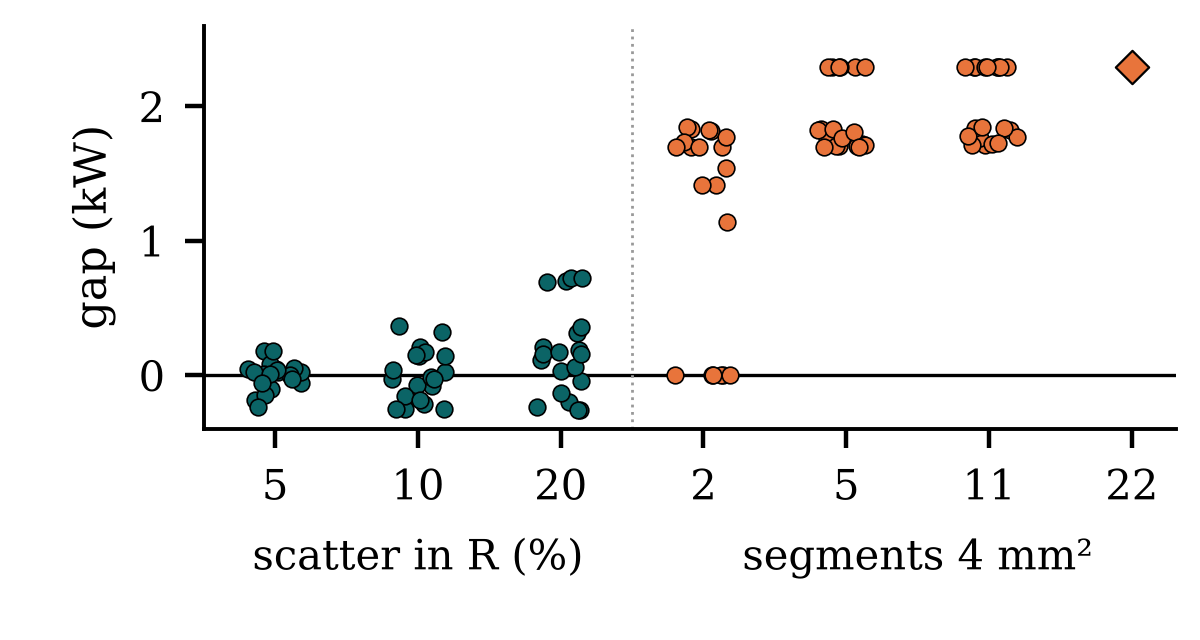
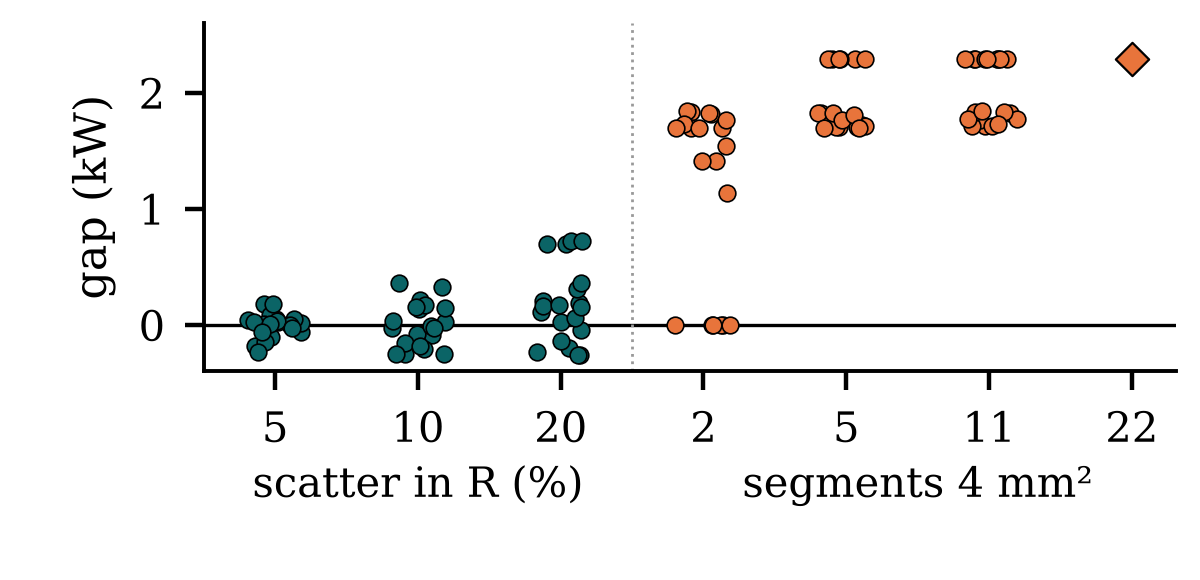
Paper figures: final sizes and labels
Claude-Session: https://claude.ai/code/session_01YLemEPW87EuHg3uB24Vzoz

diff --git a/figures/fig_paper.py b/figures/fig_paper.py
@@ -21,7 +21,7 @@ W = 3.0  # inches, one column
 e = pd.read_csv(os.path.join(R, "doe_record_errors_1200.csv"))
 s = pd.read_csv(os.path.join(R, "doe_source_sweep.csv"))
 all22 = float(s[(s.setting == "day_1200") & (abs(s.source_pu - 1.03) < 1e-6)].A_gap_kW.iloc[0])
-fig, a = plt.subplots(figsize=(W, 1.6))
+fig, a = plt.subplots(figsize=(W, 1.45))
 groups = [("scatter", 0.05, "5"), ("scatter", 0.10, "10"), ("scatter", 0.20, "20"),
           ("wrongtype", 2.0, "2"), ("wrongtype", 5.0, "5"), ("wrongtype", 11.0, "11")]
 rng = np.random.default_rng(1)
@@ -37,7 +37,7 @@ a.text(1, -0.27, "scatter in R (%)", ha="center", va="top", fontsize=7.5, transf
 a.text(4.5, -0.27, "segments 4 mm²", ha="center", va="top", fontsize=7.5, transform=a.get_xaxis_transform())
 a.set_ylim(-0.4, 2.6)
 a.set_ylabel("gap (kW)")
-fig.subplots_adjust(left=0.17, right=0.98, top=0.96, bottom=0.33)
+fig.subplots_adjust(left=0.17, right=0.98, top=0.96, bottom=0.36)
 fig.savefig("fig_paper_1.png", dpi=400)
 
 # ---- Fig. 2: one measured day
@@ -45,7 +45,7 @@ t = pd.read_csv(os.path.join(R, "doe_timeseries.csv"))
 day = t[t.daylight == "yes"]
 hrs = np.array([int(x[:2]) + int(x[3:]) / 60 for x in day.time])
 v = day.A_pv_V_VW.values
-fig, a = plt.subplots(figsize=(W, 1.4))
+fig, a = plt.subplots(figsize=(W, 1.25))
 a.axhline(253, color=RED, lw=0.8, ls="--")
 a.plot(hrs, v, "-o", color=ORANGE, ms=2.4, mec="black", mew=0.3, lw=1)
 a.fill_between(hrs, 253, v, where=v > 253, color=ORANGE, alpha=0.25, lw=0)
@@ -56,7 +56,7 @@ a.text(18.9, 254.45, f"{over} half-hours\nabove 253 V", fontsize=7.5, ha="right"
 a.set_xlim(6, 19); a.set_xticks([6, 8, 10, 12, 14, 16, 18])
 a.set_ylim(250.8, 255.6)
 a.set_xlabel("hour of day")
-a.set_ylabel("highest voltage (V)")
-fig.subplots_adjust(left=0.17, right=0.98, top=0.96, bottom=0.3)
+a.set_ylabel("highest V (V)")
+fig.subplots_adjust(left=0.18, right=0.98, top=0.95, bottom=0.33)
 fig.savefig("fig_paper_2.png", dpi=400)
 print("all22", round(all22, 3), "over", over, "peak", round(np.nanmax(v), 2))
